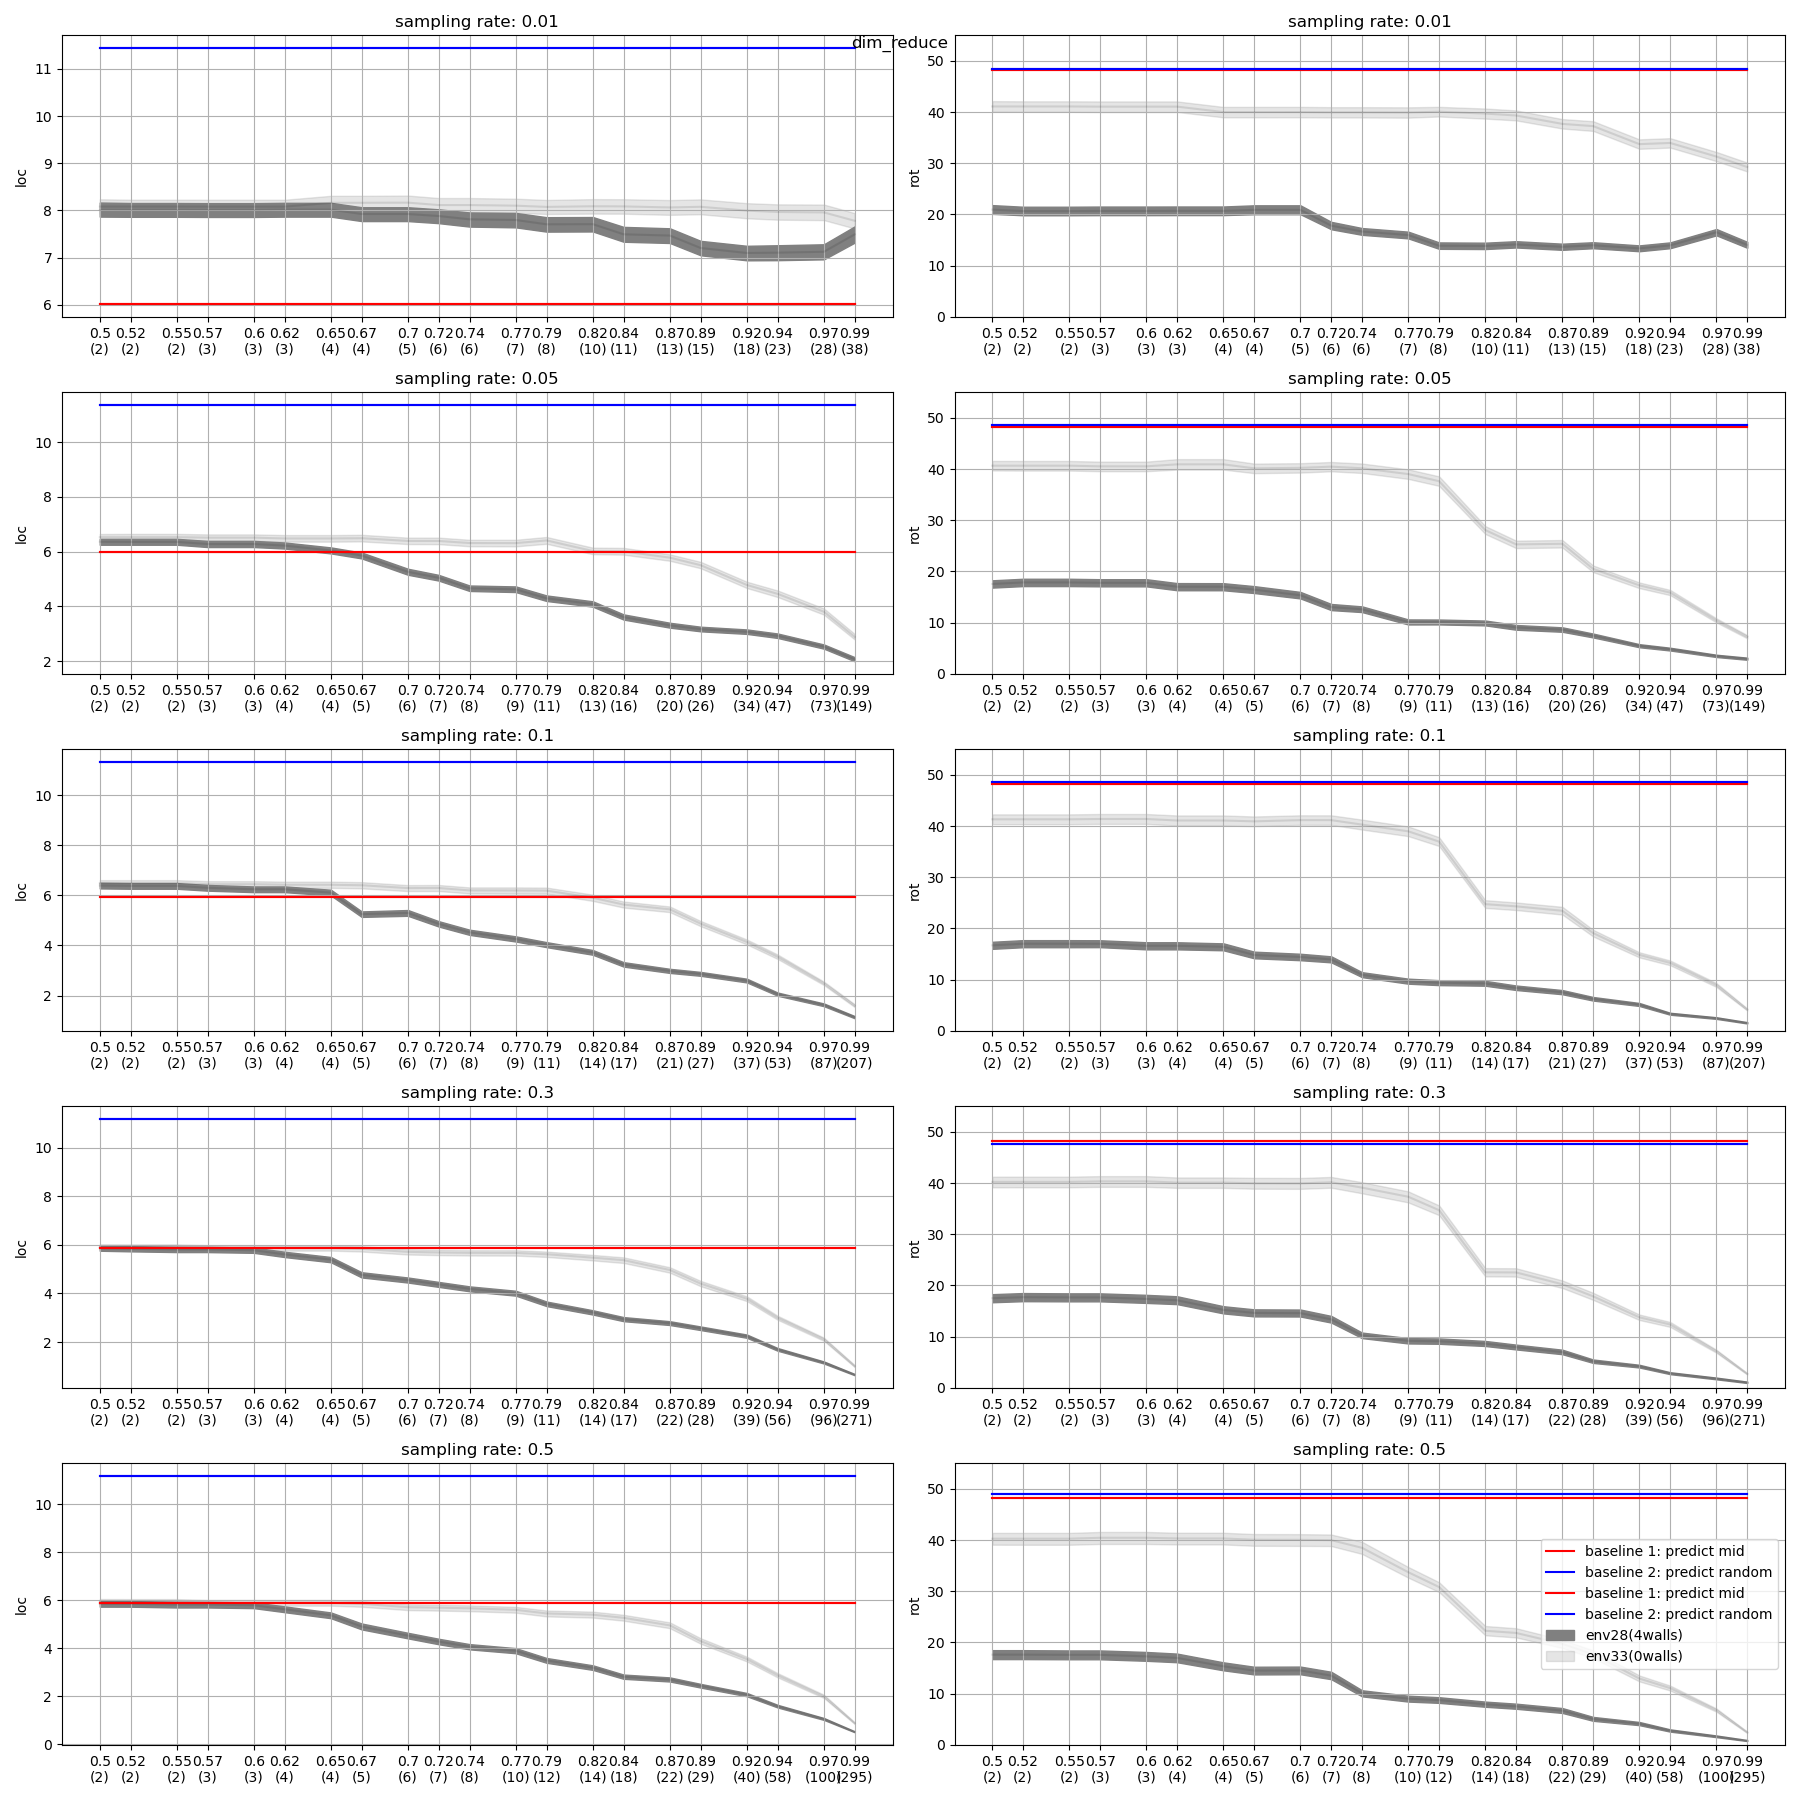
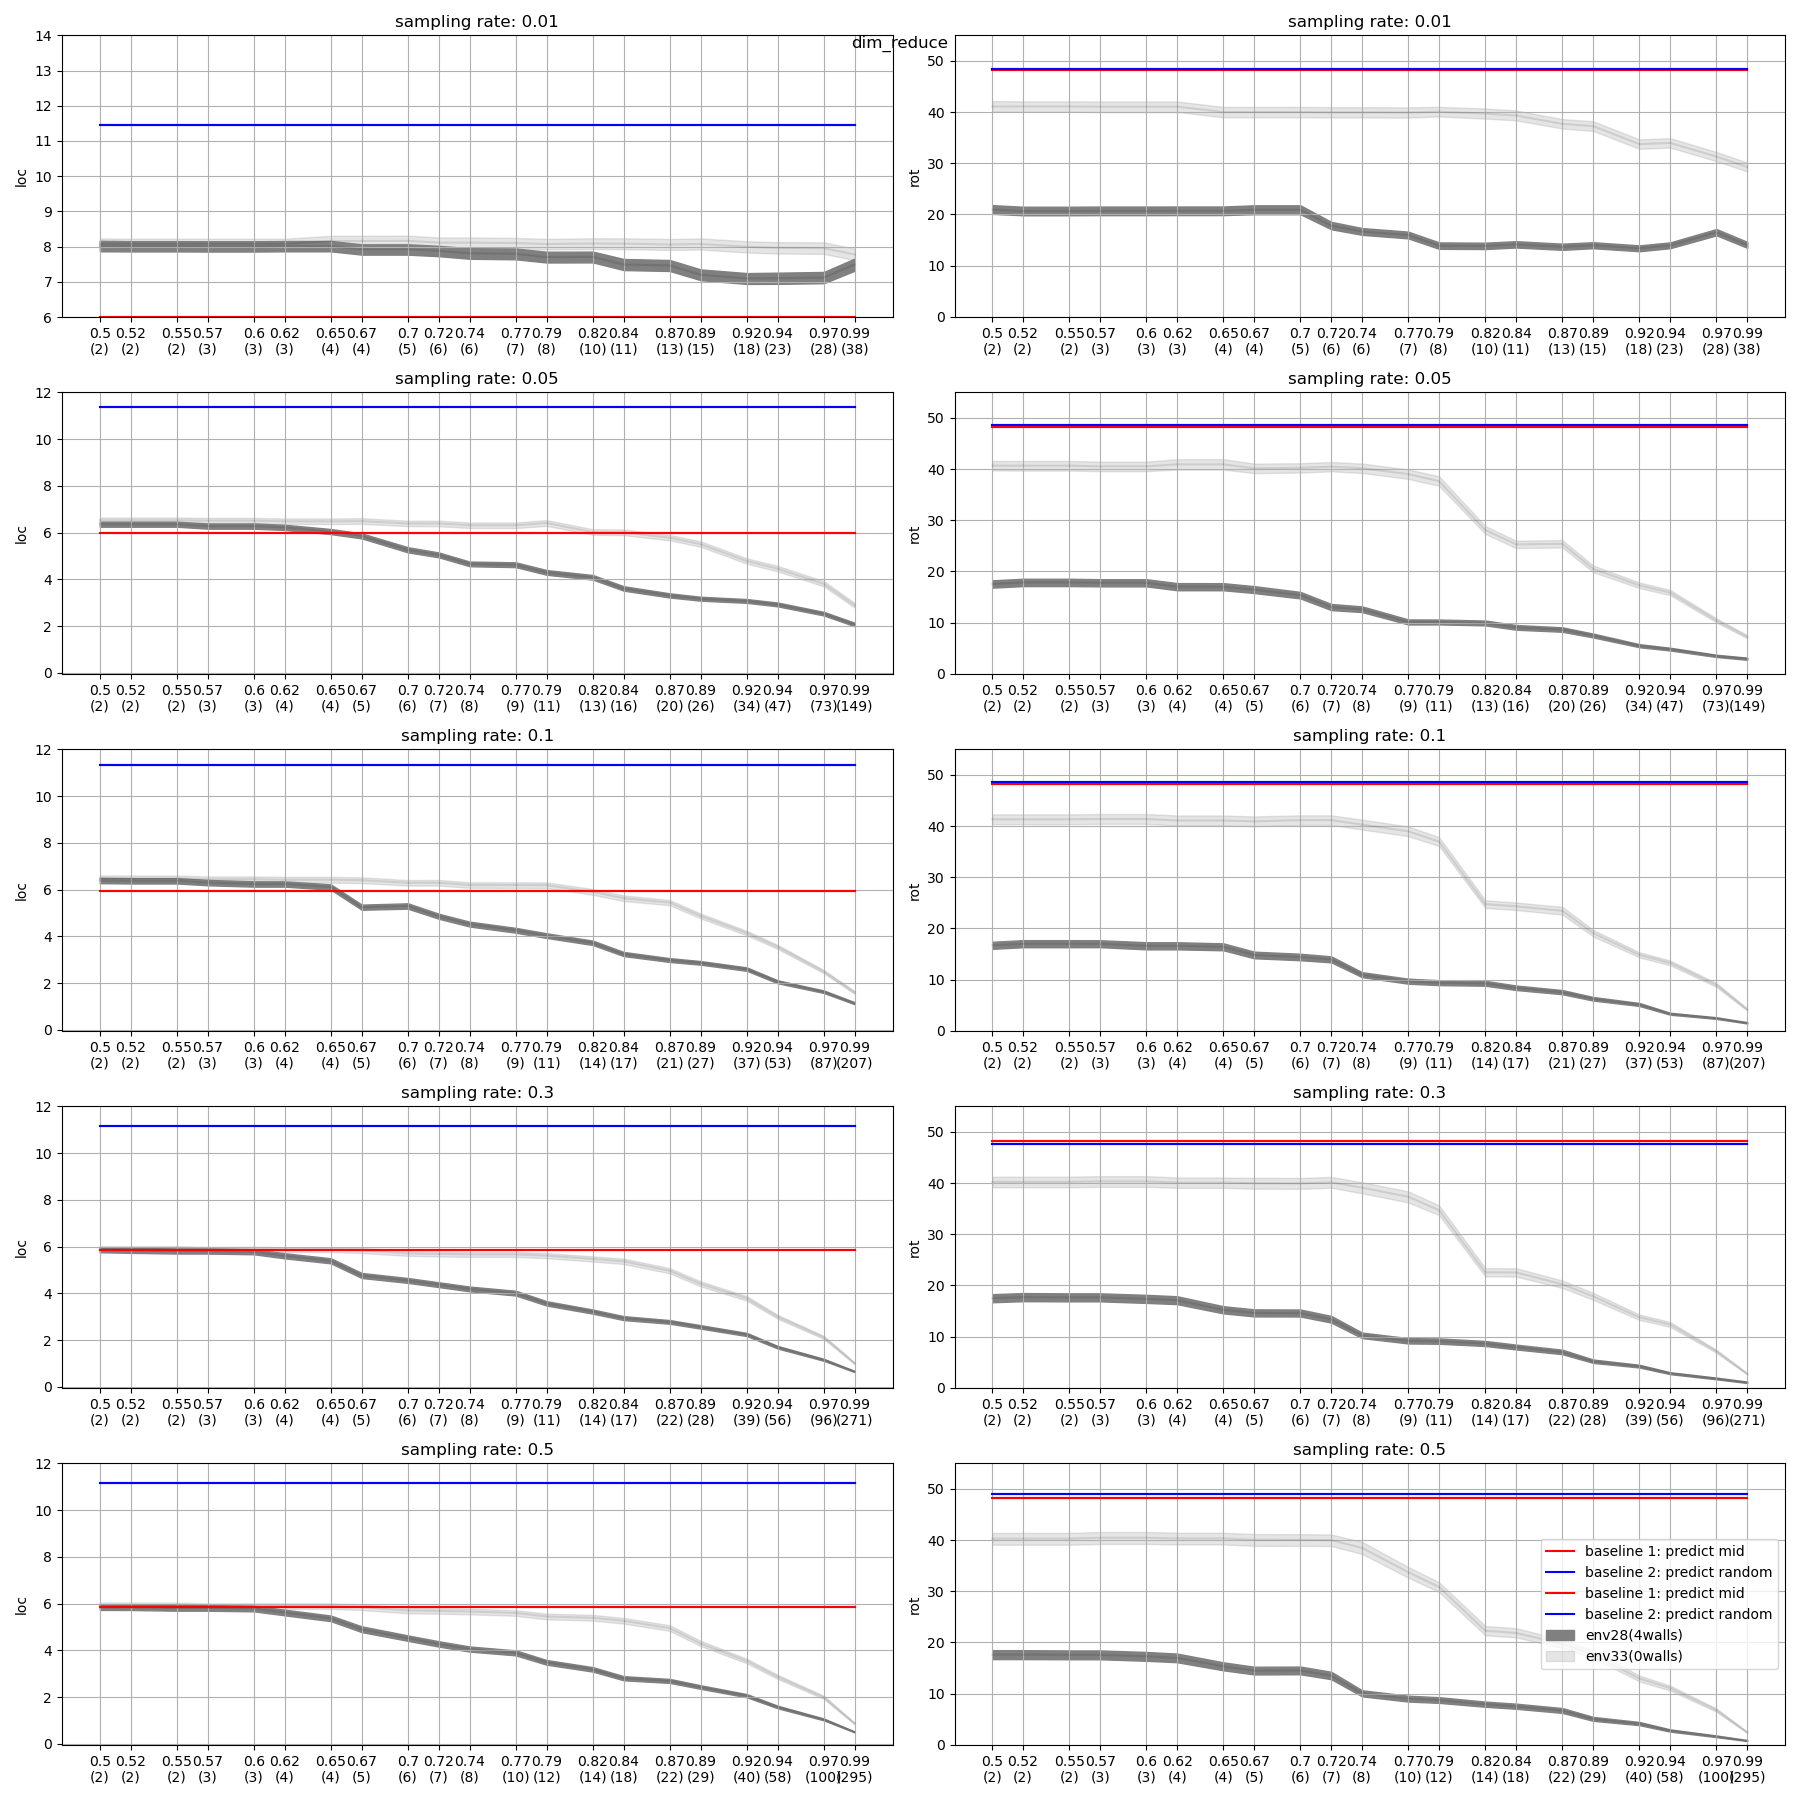
make yaxis consistent across layers for comparison ease

diff --git a/adhoc_location_n_rotation.py b/adhoc_location_n_rotation.py
@@ -951,49 +951,49 @@ if __name__ == '__main__':
     import time
     start_time = time.time()
 
-    # multiproc_execute(
-    multicuda_execute(
-        WITHIN_ENV__decoding_error_across_reps_n_components,
-        config_versions=[
-            # f'env28_r24_2d_vgg16_fc2_9_pca',
-            f'env33_r24_2d_vgg16_fc2_9_pca',
-        ],
-        variance_explained_list=np.linspace(0.5, 0.99, 21),
-        # variance_explained_list=None,
-        # variance_explained_interval=0.1,
-        variance_explained_interval=None,
-        moving_trajectory='uniform',
-        sampling_rate_list=[0.01, 0.05, 0.1, 0.3, 0.5],
-        cuda_id_list=[0, 1, 2, 3, 4],
-        # n_processes=40,
-    )
-
-    # ACROSS_ENVS__decoding_error_across_reps_n_components(
-    #     envs2walls={
-    #         'env28': 4,
-    #         # 'env29': 3,
-    #         # 'env30': 2,
-    #         # 'env31': 2,
-    #         # 'env32': 1,
-    #         'env33': 0,
-    #     },
-    #     model_name='vgg16',
-    #     output_layer='block3_pool',
-    #     reduction_method='pca',
-    #     reps=['dim_reduce'],
-    #     sampling_rates=[0.01, 0.05, 0.1, 0.3, 0.5],
+    # # multiproc_execute(
+    # multicuda_execute(
+    #     WITHIN_ENV__decoding_error_across_reps_n_components,
+    #     config_versions=[
+    #         # f'env28_r24_2d_vgg16_fc2_9_pca',
+    #         f'env33_r24_2d_vgg16_fc2_9_pca',
+    #     ],
     #     variance_explained_list=np.linspace(0.5, 0.99, 21),
     #     # variance_explained_list=None,
     #     # variance_explained_interval=0.1,
     #     variance_explained_interval=None,
+    #     moving_trajectory='uniform',
+    #     sampling_rate_list=[0.01, 0.05, 0.1, 0.3, 0.5],
+    #     cuda_id_list=[0, 1, 2, 3, 4],
+    #     # n_processes=40,
     # )
 
-    WITHIN_ENVS__regression_weights_across_n_components(
-        config_version='env33_r24_2d_vgg16_fc2_9_pca',
+    ACROSS_ENVS__decoding_error_across_reps_n_components(
+        envs2walls={
+            'env28': 4,
+            # 'env29': 3,
+            # 'env30': 2,
+            # 'env31': 2,
+            # 'env32': 1,
+            'env33': 0,
+        },
+        model_name='vgg16',
+        output_layer='fc2',
+        reduction_method='pca',
+        reps=['dim_reduce'],
+        sampling_rates=[0.01, 0.05, 0.1, 0.3, 0.5],
         variance_explained_list=np.linspace(0.5, 0.99, 21),
-        moving_trajectory='uniform',
-        sampling_rate_list=[0.01, 0.05, 0.1, 0.3, 0.5],
+        # variance_explained_list=None,
+        # variance_explained_interval=0.1,
+        variance_explained_interval=None,
     )
+
+    # WITHIN_ENVS__regression_weights_across_n_components(
+    #     config_version='env33_r24_2d_vgg16_fc2_9_pca',
+    #     variance_explained_list=np.linspace(0.5, 0.99, 21),
+    #     moving_trajectory='uniform',
+    #     sampling_rate_list=[0.01, 0.05, 0.1, 0.3, 0.5],
+    # )
 
     end_time = time.time()
     time_elapsed = (end_time - start_time) / 3600
